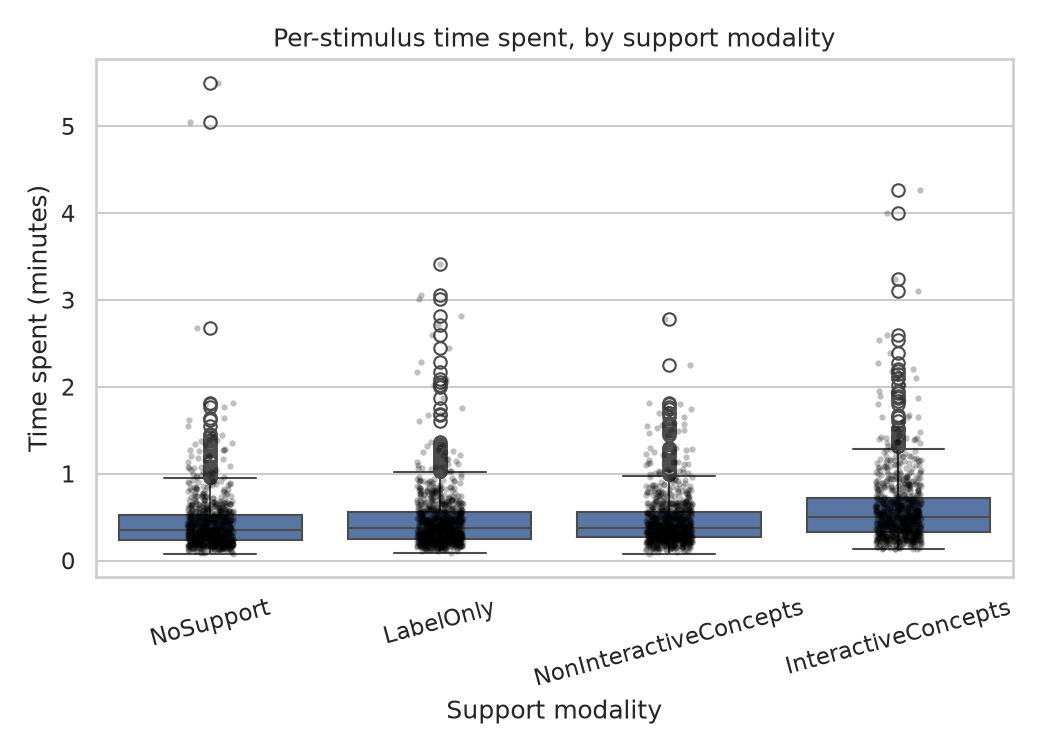
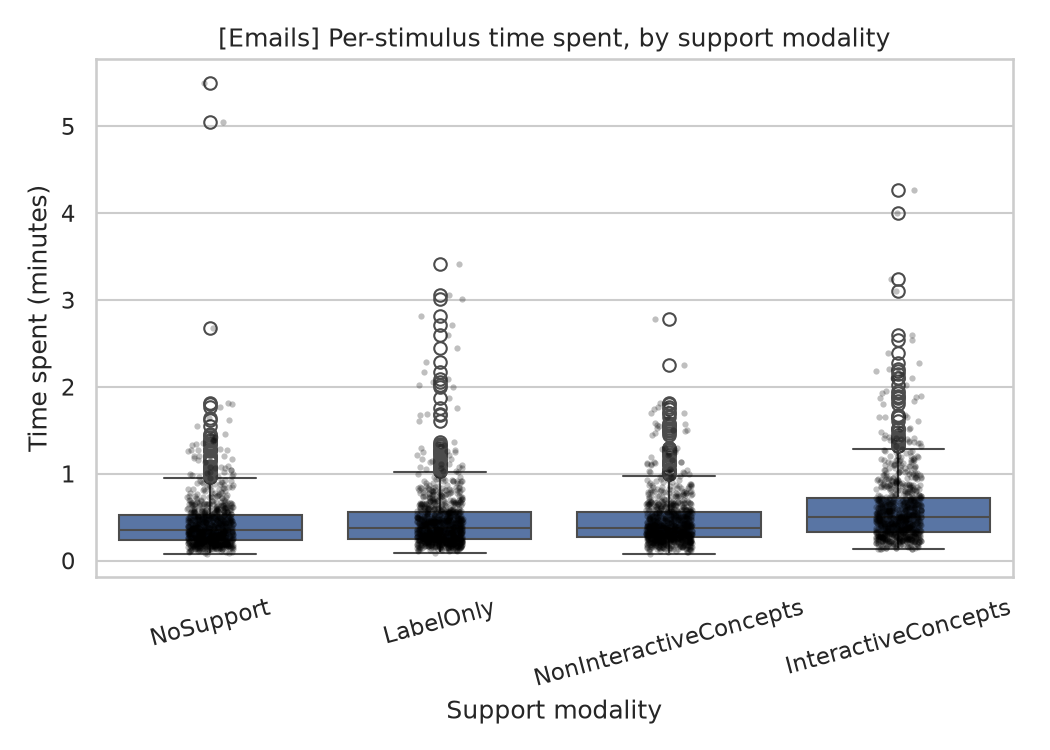
Add dataset name to supplementary-analysis plot titles
Every figure now prefixes its title with [CUB]/[Emails] and the
multi-panel correlation scatterplot grid gets a matching suptitle, so
figures are self-identifying when viewed outside their folder (e.g. in a
paper appendix). run_all() now also asserts all 6 expected PNGs exist
after generation, failing loudly instead of silently if one is missing.
Regenerated and verified both experiments produce the full set of 6.

diff --git a/common/participant_analysis.py b/common/participant_analysis.py
@@ -49,12 +49,12 @@ def kruskal_by_condition(df: pd.DataFrame, value_col: str) -> tuple[float, float
 
 
 def boxplot_by_condition(df: pd.DataFrame, value_col: str, title: str, ylabel: str,
-                          out_path: Path, condition_order: list[str]) -> None:
+                          out_path: Path, condition_order: list[str], dataset_name: str) -> None:
     fig, ax = plt.subplots(figsize=(7, 5))
     sns.boxplot(data=df, x="ExperimentalCondition", y=value_col, order=condition_order, ax=ax)
     sns.stripplot(data=df, x="ExperimentalCondition", y=value_col, order=condition_order,
                   color="black", alpha=0.25, size=3, ax=ax)
-    ax.set_title(title)
+    ax.set_title(f"[{dataset_name}] {title}")
     ax.set_xlabel("Support modality")
     ax.set_ylabel(ylabel)
     plt.xticks(rotation=15)
@@ -65,11 +65,12 @@ def boxplot_by_condition(df: pd.DataFrame, value_col: str, title: str, ylabel: s
 
 
 def analysis_time_vs_support(long_df: pd.DataFrame, wide_df: pd.DataFrame, out_dir: Path,
-                              condition_order: list[str]) -> None:
+                              condition_order: list[str], dataset_name: str) -> None:
     print("\n=== A. Time-on-task vs. support modality ===")
 
     boxplot_by_condition(long_df, "TimeSpent", "Per-stimulus time spent, by support modality",
-                          "Time spent (minutes)", out_dir / "time_per_stimulus_by_condition.png", condition_order)
+                          "Time spent (minutes)", out_dir / "time_per_stimulus_by_condition.png",
+                          condition_order, dataset_name)
     h, p = kruskal_by_condition(long_df, "TimeSpent")
     print(f"  Kruskal-Wallis (per-stimulus TimeSpent across conditions): H={h:.2f}, p={p:.4g}")
     print(long_df.groupby("ExperimentalCondition", observed=True)["TimeSpent"].agg(["mean", "median", "std", "count"]))
@@ -77,14 +78,15 @@ def analysis_time_vs_support(long_df: pd.DataFrame, wide_df: pd.DataFrame, out_d
     total_time = long_df.groupby("ID")["TimeSpent"].sum().rename("TotalTimeSpent")
     participant_time = wide_df[["ID", "ExperimentalCondition"]].merge(total_time, on="ID")
     boxplot_by_condition(participant_time, "TotalTimeSpent", "Total time on task per participant, by support modality",
-                          "Total time (minutes)", out_dir / "total_time_per_participant_by_condition.png", condition_order)
+                          "Total time (minutes)", out_dir / "total_time_per_participant_by_condition.png",
+                          condition_order, dataset_name)
     h, p = kruskal_by_condition(participant_time, "TotalTimeSpent")
     print(f"  Kruskal-Wallis (per-participant total TimeSpent across conditions): H={h:.2f}, p={p:.4g}")
     print(participant_time.groupby("ExperimentalCondition", observed=True)["TotalTimeSpent"].agg(["mean", "median", "std", "count"]))
 
 
 def analysis_decisiveness(long_df: pd.DataFrame, out_dir: Path, condition_order: list[str],
-                           interactive_condition: str) -> None:
+                           interactive_condition: str, dataset_name: str) -> None:
     print("\n=== B. Decisiveness vs. support modality ===")
 
     # TimesAnswerChanged is a heavily zero-inflated count (median 0 in every
@@ -100,7 +102,7 @@ def analysis_decisiveness(long_df: pd.DataFrame, out_dir: Path, condition_order:
     )
     fig, ax = plt.subplots(figsize=(7, 5))
     sns.barplot(data=changed_share, x="ExperimentalCondition", y="changed", order=condition_order, ax=ax)
-    ax.set_title("Share of stimuli where the classification answer was changed at least once")
+    ax.set_title(f"[{dataset_name}] Share of stimuli where the classification answer was changed at least once")
     ax.set_xlabel("Support modality")
     ax.set_ylabel("Share of stimuli with >=1 answer change")
     ax.yaxis.set_major_formatter(lambda v, _: f"{v:.0%}")
@@ -120,7 +122,7 @@ def analysis_decisiveness(long_df: pd.DataFrame, out_dir: Path, condition_order:
     interactive = long_df[long_df["ExperimentalCondition"] == interactive_condition]
     fig, ax = plt.subplots(figsize=(6, 5))
     sns.histplot(interactive["total_clicks"], discrete=True, ax=ax)
-    ax.set_title(f"Concept-value edits per stimulus ({interactive_condition} only)")
+    ax.set_title(f"[{dataset_name}] Concept-value edits per stimulus ({interactive_condition} only)")
     ax.set_xlabel("Total concept clicks (sum over 6 features)")
     fig.tight_layout()
     fig.savefig(out_dir / "concept_clicks_interactive_only.png", dpi=150)
@@ -131,7 +133,7 @@ def analysis_decisiveness(long_df: pd.DataFrame, out_dir: Path, condition_order:
 
 
 def analysis_correlations(long_df: pd.DataFrame, wide_df: pd.DataFrame, out_dir: Path,
-                           condition_order: list[str]) -> None:
+                           condition_order: list[str], dataset_name: str) -> None:
     print("\n=== C. Trust / confidence / interaction / time correlations ===")
 
     per_participant = long_df.groupby("ID").agg(
@@ -150,7 +152,7 @@ def analysis_correlations(long_df: pd.DataFrame, wide_df: pd.DataFrame, out_dir:
 
     fig, ax = plt.subplots(figsize=(8, 6.5))
     sns.heatmap(corr, annot=True, fmt=".2f", cmap="RdBu_r", vmin=-1, vmax=1, ax=ax)
-    ax.set_title("Spearman correlation (per-participant aggregates)\n"
+    ax.set_title(f"[{dataset_name}] Spearman correlation (per-participant aggregates)\n"
                   "TrustIndex is NaN where there's no model to rate, pairwise-excluded there", fontsize=10)
     fig.tight_layout()
     fig.savefig(out_dir / "correlation_heatmap.png", dpi=150)
@@ -184,19 +186,33 @@ def analysis_correlations(long_df: pd.DataFrame, wide_df: pd.DataFrame, out_dir:
         ax.set_title(f"{x} vs. {y}")
     if axes.flat[0].get_legend() is not None:
         axes.flat[0].legend(fontsize=7, loc="best")
-    fig.tight_layout()
+    fig.suptitle(f"[{dataset_name}] Pairwise correlations (per-participant aggregates)")
+    fig.tight_layout(rect=[0, 0, 1, 0.96])
     fig.savefig(out_dir / "correlation_scatterplots.png", dpi=150)
     plt.close(fig)
     print(f"  saved {out_dir / 'correlation_scatterplots.png'}")
 
 
 def run_all(long_df: pd.DataFrame, wide_df: pd.DataFrame, out_dir: Path,
-            condition_order: list[str], interactive_condition: str) -> None:
+            condition_order: list[str], interactive_condition: str, dataset_name: str) -> None:
     out_dir.mkdir(parents=True, exist_ok=True)
     long_df = prep_long_df(long_df, condition_order)
     wide_df = prep_wide_df(wide_df, condition_order)
-    print(f"Loaded long ({len(long_df)} rows) and wide ({len(wide_df)} rows) participant data")
+    print(f"[{dataset_name}] Loaded long ({len(long_df)} rows) and wide ({len(wide_df)} rows) participant data")
 
-    analysis_time_vs_support(long_df, wide_df, out_dir, condition_order)
-    analysis_decisiveness(long_df, out_dir, condition_order, interactive_condition)
-    analysis_correlations(long_df, wide_df, out_dir, condition_order)
+    analysis_time_vs_support(long_df, wide_df, out_dir, condition_order, dataset_name)
+    analysis_decisiveness(long_df, out_dir, condition_order, interactive_condition, dataset_name)
+    analysis_correlations(long_df, wide_df, out_dir, condition_order, dataset_name)
+
+    expected = [
+        "time_per_stimulus_by_condition.png",
+        "total_time_per_participant_by_condition.png",
+        "answer_changes_by_condition.png",
+        "concept_clicks_interactive_only.png",
+        "correlation_heatmap.png",
+        "correlation_scatterplots.png",
+    ]
+    missing = [f for f in expected if not (out_dir / f).exists()]
+    if missing:
+        raise RuntimeError(f"[{dataset_name}] missing expected figures after generation: {missing}")
+    print(f"[{dataset_name}] All {len(expected)} expected figures present in {out_dir}")

diff --git a/emails/scripts/supplementary_analysis.py b/emails/scripts/supplementary_analysis.py
@@ -43,7 +43,7 @@ def main() -> None:
     data_dir = Path(args.data_dir)
     long_df = pd.read_csv(data_dir / "dataLongClean.csv", keep_default_na=False)
     wide_df = pd.read_csv(data_dir / "dataWideClean.csv", keep_default_na=False)
-    run_all(long_df, wide_df, Path(args.output_dir), CONDITION_ORDER, INTERACTIVE_CONDITION)
+    run_all(long_df, wide_df, Path(args.output_dir), CONDITION_ORDER, INTERACTIVE_CONDITION, "Emails")
 
 
 if __name__ == "__main__":

diff --git a/cub/scripts/supplementary_analysis.py b/cub/scripts/supplementary_analysis.py
@@ -43,7 +43,7 @@ def main() -> None:
     data_dir = Path(args.data_dir)
     long_df = pd.read_csv(data_dir / "dataLongClean.csv", keep_default_na=False)
     wide_df = pd.read_csv(data_dir / "dataWideClean.csv", keep_default_na=False)
-    run_all(long_df, wide_df, Path(args.output_dir), CONDITION_ORDER, INTERACTIVE_CONDITION)
+    run_all(long_df, wide_df, Path(args.output_dir), CONDITION_ORDER, INTERACTIVE_CONDITION, "CUB")
 
 
 if __name__ == "__main__":
